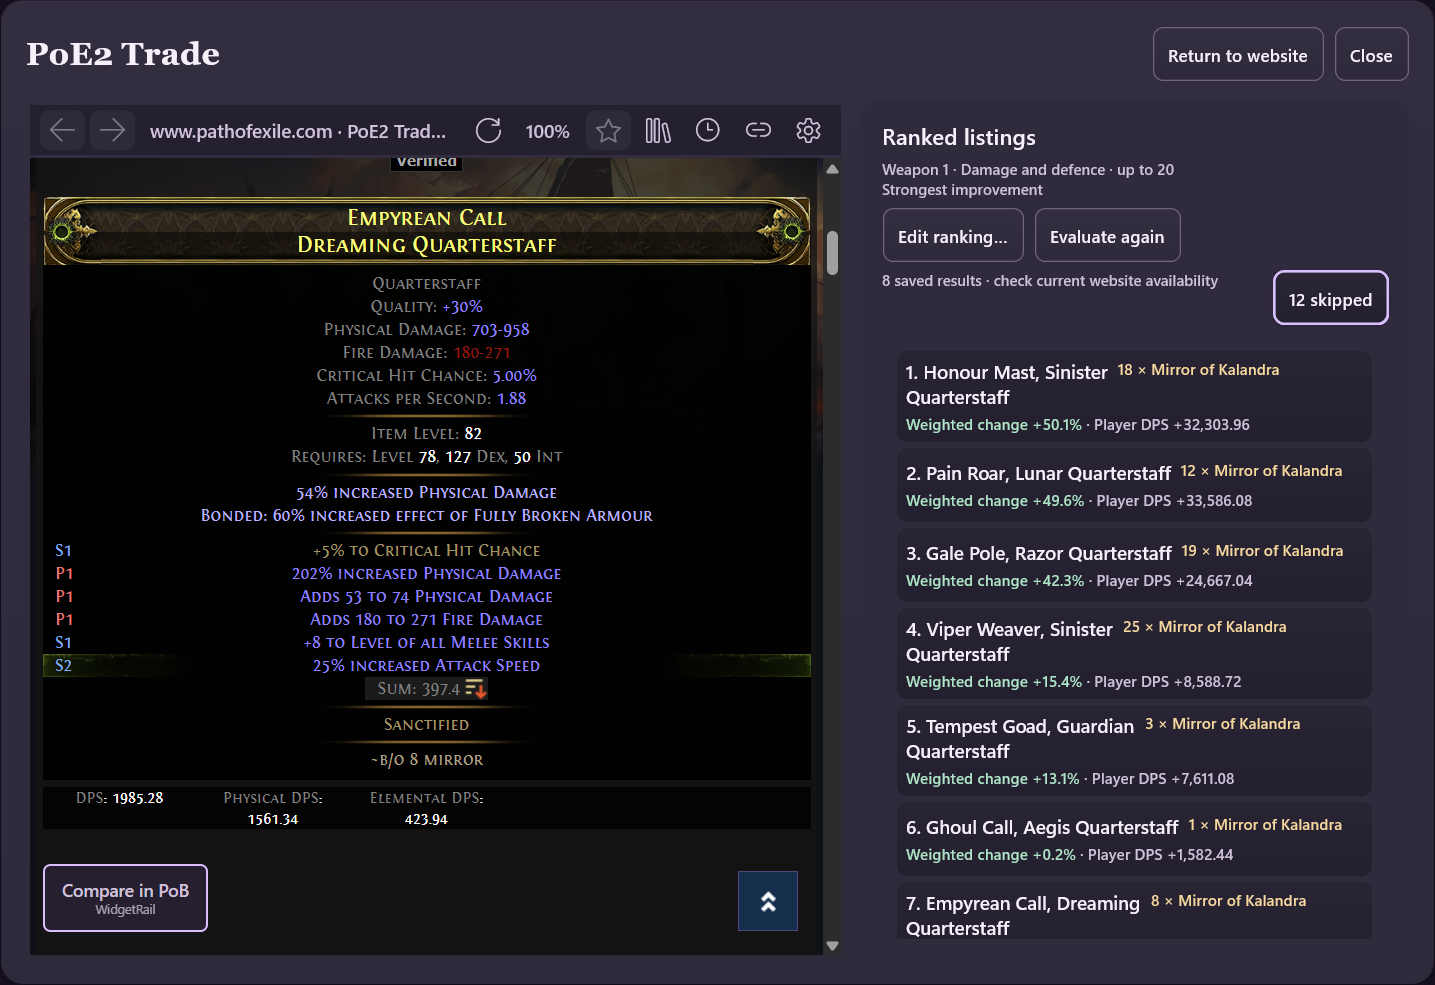
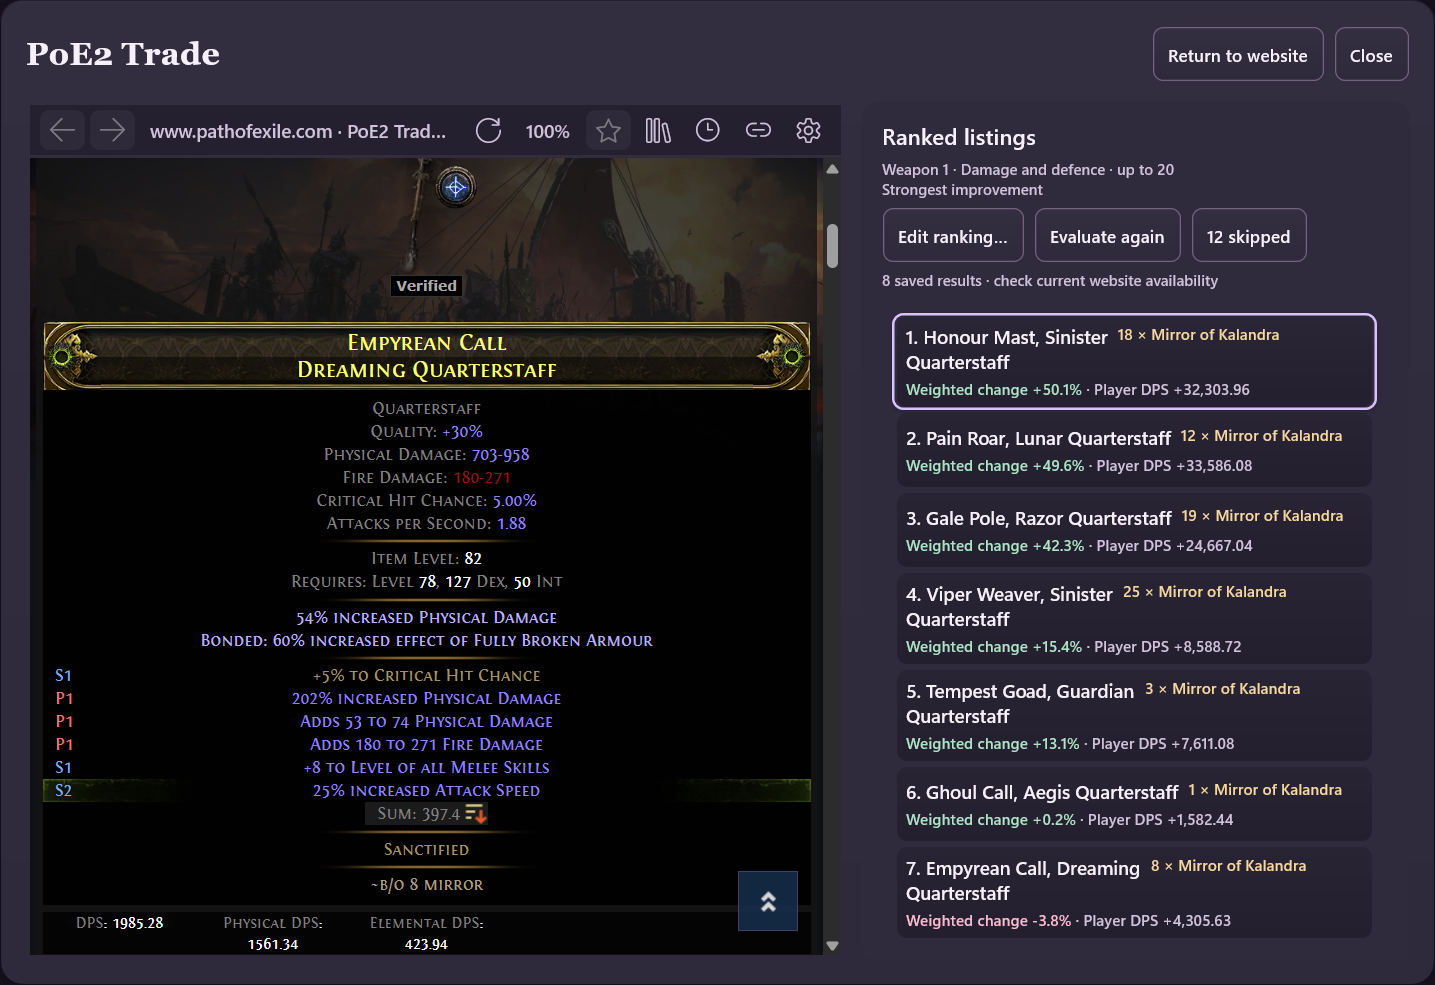
Align skipped results with ranking actions

diff --git a/samples/PobCompanion/PobWidget.TradeRanking.cs b/samples/PobCompanion/PobWidget.TradeRanking.cs
@@ -251,18 +251,17 @@ public sealed partial class PobWidget
             controls.Add(Text(RankingRateLabel(),"rank.rates","pob-small pob-muted"));
         }
         else controls.Add(Text($"{rankingSlot} · {TradePriorities.First(p=>p.Key==tradePriority).Label} · up to {tradeBatchLimit}\n{RankingSorts.First(s=>s.Key==rankingSort).Label}","rank.context","pob-small pob-muted"));
-        controls.Add(UI.Row("pob.rank.actions",
+        var actions=new List<WidgetElement>{
             Button(rankingEditing?"Done":"Edit ranking…","trade-rank-edit","rank.edit").FocusLeft("pob.website.browser"),
-            Button("Evaluate again","trade-rank-evaluate","rank.evaluate")).Classes("pob-toolbar"));
-        var summary=Text(stale?"Scores need recalculation for this build, slot or priority.":rankingSummary,"rank.summary","pob-small pob-muted");
+            Button("Evaluate again","trade-rank-evaluate","rank.evaluate")};
+        if(rankingSkipped.Length>0)actions.Add(Button((rankingSkippedExpanded?"Hide ":"")+$"{rankingSkipped.Length} skipped","trade-rank-skipped","rank.skipped-toggle"));
+        controls.Add(UI.Row("pob.rank.actions",actions.ToArray()).Classes("pob-toolbar"));
+        controls.Add(Text(stale?"Scores need recalculation for this build, slot or priority.":rankingSummary,"rank.summary","pob-small pob-muted"));
         if(rankingSkipped.Length>0)
         {
-            controls.Add(UI.Grid("pob.rank.status",[GridTrack.Auto()],[GridTrack.Star(),GridTrack.Auto()],summary,
-                Button((rankingSkippedExpanded?"Hide ":"")+$"{rankingSkipped.Length} skipped","trade-rank-skipped","rank.skipped-toggle").InGrid(column:1)).Spacing(0,8));
             if(rankingSkippedExpanded)controls.Add(UI.VerticalScroll("pob.rank.skipped",rankingSkipped.Select((reason,i)=>Text(Limit(reason,600),"rank.skipped."+i,"pob-small pob-muted")).ToArray())
                 .Shortcut(ControllerButton.LeftStick,"trade-rank-focus","Ranking controls").Classes("pob-scroll","pob-rank-skipped"));
         }
-        else controls.Add(summary);
         var tools=UI.Stack("pob.rank.tools",controls.ToArray()).RememberChildFocus("pob.rank.edit").Classes("pob-buildtools");
         var list=UI.Stack("pob.rank.list",UI.CollectionList("pob.rank.results",rankingCollection,76,"Evaluated trade listings").Classes("pob-scroll"))
             .RememberChildFocus("pob.rank.results").Shortcut(ControllerButton.LeftStick,"trade-rank-focus","Ranking controls").Classes("pob-workspace");

diff --git a/samples/PobCompanion/screenshots/README.md b/samples/PobCompanion/screenshots/README.md
@@ -13,7 +13,7 @@ The PoE2 planning build is the **Late game** loadout from [Ghost Activity's Mart
 | [configuration.png](configuration.png) | Configuration categories with optional explanations from PoB. |
 | [import.png](import.png) | Build library, import destinations, website shortcuts and browser preference. |
 | [trade-comparison.png](trade-comparison.png) | Official PoE2 listing beside calculated changes for the selected equipment slot; account header scrolled out of view. |
-| [trade-ranking.png](trade-ranking.png) | Six complete saved candidates visible together, compact ranking controls and collapsed skipped-item reasons. |
+| [trade-ranking.png](trade-ranking.png) | Seven complete saved candidates visible together, compact ranking controls and collapsed skipped-item reasons. |
 
 The trade examples use the same Martial Artist build and real historical Standard listings on GGG's official site. The saved shortlist came from a batch of 20 loaded candidates: eight were ranked and twelve were skipped because the pinned engine could not calculate their modifiers. **Strongest improvement** is selected, so the displayed prices do not affect the order. No item was purchased or equipped for these captures.
 
